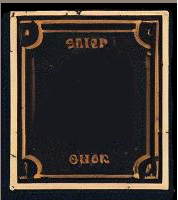
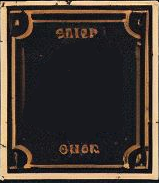
added items.json and card styling

diff --git a/react-rpg/src/Components/Header/Header.css b/react-rpg/src/Components/Header/Header.css
@@ -1,8 +1,5 @@
 .header {
     background-color: rgb(53, 38, 25);
-    border: .5vmin solid rgb(177, 156, 135);
-    border-radius: 5px; 
-    box-shadow: 0 0 5px 0 rgba(0, 0, 0, 1) inset, 0 5px 10px 5px rgba(0, 0, 0, 1);
     display: flex;
     justify-content: center;
     align-items: center; 
@@ -27,7 +24,7 @@
 .quote {
     width: 60%;
     color:antiquewhite;
-    font-size: 40px;
+    font-size: 2vh;
     font-style: oblique;
     text-align: left;
 }

diff --git a/react-rpg/src/Components/Header/Header.jsx b/react-rpg/src/Components/Header/Header.jsx
@@ -4,7 +4,7 @@ const Header = () => {
     return (
         <div className="header">
             <div className='portrait'></div>
-            <div className='quote'>"Within each of these lies a unique tale, dear to my heart. I shall not relinquish them for a trifling sum."</div>
+            <div className='quote'>"Within each of these lies a unique tale. I shall not relinquish them for a trifling sum."</div>
         </div>
     );
 };

diff --git a/react-rpg/src/Components/Container/container.css b/react-rpg/src/Components/Container/container.css
@@ -1,6 +1,6 @@
 .container {
         background-color:#000000;
-        border:solid 3vmin ;
+        border:solid 2vmin ;
         border-bottom-color:rgb(177, 156, 135);
         border-left-color:rgb(177, 156, 135);
         border-radius:2px;
